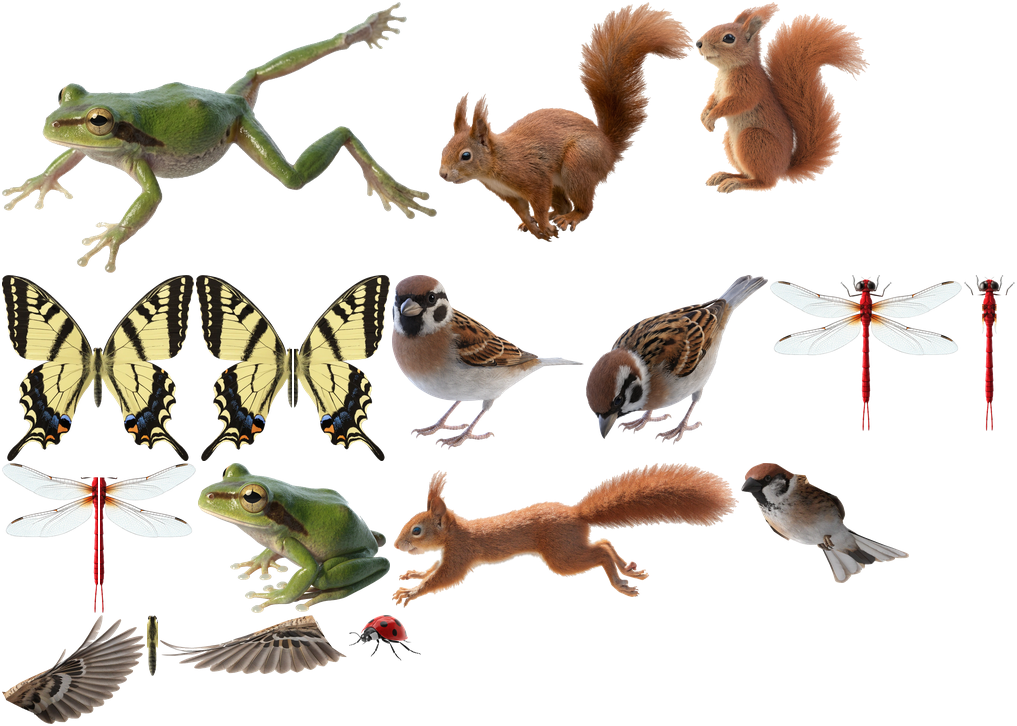
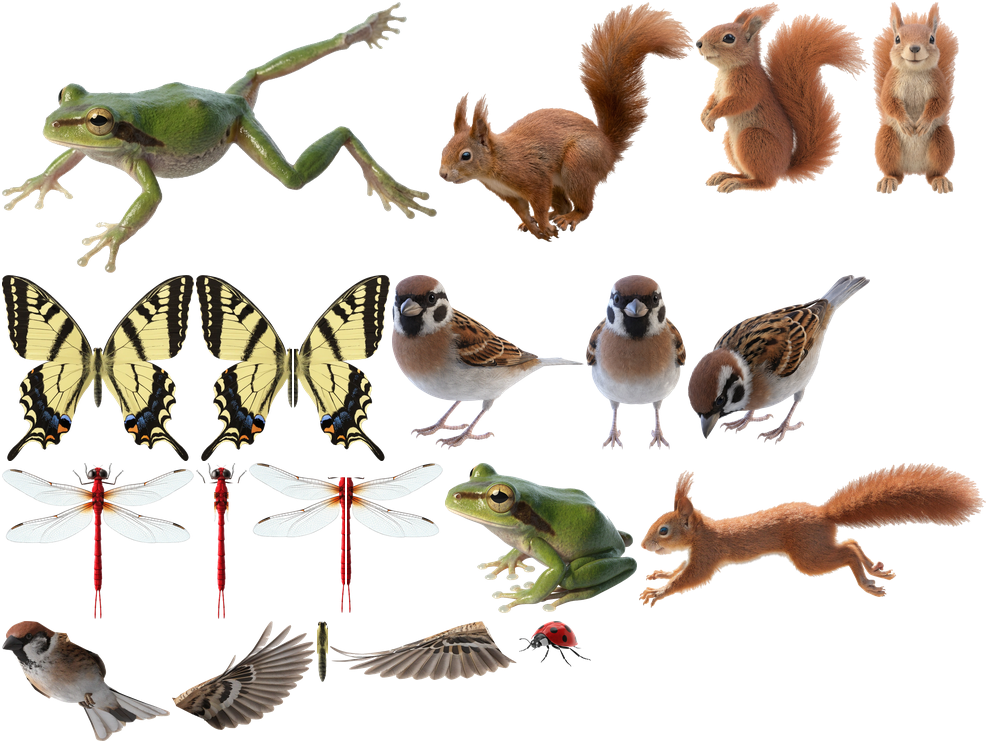
ことりとりすの正面の絵を取り込む（creature_bird_front・creature_squirrel_front）。ほかの生き物と同じ切り抜き（りすはしっぽの毛先を深めに白と分け、ことりは白い所を残す抜き方）、横向きと頭から足までの高さをそろえ、接地点は両足の間

diff --git a/app/src/main/java/com/studioguu/miniaturegarden/data/asset/TileSetDefinition.kt b/app/src/main/java/com/studioguu/miniaturegarden/data/asset/TileSetDefinition.kt
@@ -127,6 +127,13 @@ object TileSetDefinition {
     /** The bird with its beak at the ground, `creature_bird_peck`, anchored on its feet. */
     const val BIRD_PECKING = "creature_bird_peck"
 
+    /**
+     * The bird and the squirrel facing the viewer, `creature_bird_front` and `creature_squirrel_front`,
+     * anchored between their feet and as tall as the side views: shown for a moment as they turn round.
+     */
+    const val BIRD_FRONT = "creature_bird_front"
+    const val SQUIRREL_FRONT = "creature_squirrel_front"
+
     /** The frog in mid-leap, `creature_frog_jump`, anchored so that its head lies where the sitting frog's does. */
     const val FROG_LEAPING = "creature_frog_jump"
 
@@ -155,7 +162,7 @@ object TileSetDefinition {
     /** Every sprite id the creatures' atlas has: each visitor's picture, its other poses, and the fliers in parts. */
     val expectedCreatureSpriteIds: List<String> =
         Creature.entries.flatMap { listOf(assetIdFor(it)) + listOfNotNull(wingedBodyId(it)) + wingIds(it) } +
-            listOf(SQUIRREL_RUNNING, SQUIRREL_GATHERED, BIRD_PECKING, FROG_LEAPING)
+            listOf(SQUIRREL_RUNNING, SQUIRREL_GATHERED, BIRD_PECKING, FROG_LEAPING, BIRD_FRONT, SQUIRREL_FRONT)
 
     /**
      * Things drawn from a picture of their own in `res/drawable` (through [TerrainTextures]),

diff --git a/tools/prepare_creature_art.py b/tools/prepare_creature_art.py
@@ -88,6 +88,11 @@ SAME_SCALE: dict[str, tuple[str, float]] = {
     "frog_jump": ("frog", 1.8),
 }
 
+#: Pictures facing the viewer (2026-11-07), shown for a moment as the bird and the squirrel turn
+#: round: brought to the height of the one seen from the side (head to feet), and stood on their
+#: feet like it, so that turning does not jump.
+FRONT_OF: dict[str, str] = {"bird_front": "bird", "squirrel_front": "squirrel"}
+
 #: Where the pecking bird's feet are on the original: its beak reaches as low as they do, so
 #: feet() would take it for one of them.
 BIRD_PECK_FEET = (430.0, 888.0)
@@ -304,13 +309,18 @@ def fraction(point, zero, scale, picture) -> dict:
 
 def prepare() -> tuple[dict[str, np.ndarray], dict[str, dict]]:
     cuts = {name: cut(name) for name in
-            ["squirrel", "squirrel_run", "squirrel_run2", "bird", "bird_fly", "bird_peck", "frog", "frog_jump", "ladybug", "butterfly", "dragonfly"]}
+            ["squirrel", "squirrel_run", "squirrel_run2", "squirrel_front", "bird", "bird_fly", "bird_peck", "bird_front",
+             "frog", "frog_jump", "ladybug", "butterfly", "dragonfly"]}
     scales: dict[str, float] = {}
     for name, (side, share) in SIZES.items():
         x0, y0, x1, y1 = bounds(cuts[name])
         scales[name] = share * TILE / ((x1 - x0) if side == "w" else (y1 - y0))
     for name, (other, ratio) in SAME_SCALE.items():
         scales[name] = scales[other] * ratio
+    for name, side in FRONT_OF.items():
+        _, sy0, _, sy1 = bounds(cuts[side])
+        _, fy0, _, fy1 = bounds(cuts[name])
+        scales[name] = scales[side] * (sy1 - sy0) / (fy1 - fy0)
 
     pictures: dict[str, np.ndarray] = {}
     overrides: dict[str, dict] = {}
@@ -336,6 +346,9 @@ def prepare() -> tuple[dict[str, np.ndarray], dict[str, dict]]:
     # The gathered squirrel touches the ground: it stands on its feet.
     add("creature_squirrel_run2", cuts["squirrel_run2"], scales["squirrel_run2"], feet(cuts["squirrel_run2"]))
     add("creature_bird_peck", cuts["bird_peck"], scales["bird_peck"], BIRD_PECK_FEET)
+    # Facing the viewer: stood between its two feet.
+    for name in FRONT_OF:
+        add(f"creature_{name}", cuts[name], scales[name], feet(cuts[name]))
     add("creature_frog_jump", cuts["frog_jump"], scales["frog_jump"], leaping_anchor(feet(cuts["frog"]), SAME_SCALE["frog_jump"][1]))
 
     # The flying bird: anchored on the middle of its body; each wing hung on its root.

diff --git a/docs/ASSETS.md b/docs/ASSETS.md
@@ -175,6 +175,7 @@
 - **接地点（anchor）**：地上の生き物は足元（てんとうむしは体の中ほどの下）。走るりすは体の下の中央、飛ぶことりは胴の中心、ちょうちょ・とんぼは胸（羽の付け根の高さの体の中心）。
   飛ぶことりは胴の中心が接地点なので、コードは立つことりの胴の高さ（`BIRD_BODY_HEIGHT` 0.08 マス）だけ持ち上げて描き、降り立つときに体の位置が跳ねないようにしている。
 - **ポーズの絵**（2026-11-02）：ことりの `creature_bird_peck`（つつく間）、りすの `creature_squirrel_run2`（跳ねの地面側）、かえるの `creature_frog_jump`（跳ぶ間）。薄めず一度に切り替える（`VisitorLook.pose`）。大きさは目と頭で合わせた（`SAME_SCALE`）。かえるの跳ぶ絵は水の切り抜きを受けない。
+- **正面の絵**（2026-11-07）：ことりの `creature_bird_front` とりすの `creature_squirrel_front`。振り向きの途中に一瞬だけ出す。大きさは横向きの絵と頭から足までの高さをそろえ（`FRONT_OF`）、接地点は両足の間。
 - **2 枚の絵**：りすは座る `creature_squirrel` と走る `creature_squirrel_run`（移動中）、ことりは立つ `creature_bird` と飛ぶ `creature_bird_fly_*`（庭の外から飛んで来て降りるまでと、飛び去るとき）。
   切り替えは一瞬で替えず、りすは 0.14 秒、ことりは地面から 0.025 マスの高さで重ねて入れ替える（約 0.25 秒）。
   走る姿・飛ぶ姿は、頭の大きさがそろうよう、座る姿・立つ姿と同じ倍率に合わせた（原画の頭の長さ：りす 190 と 123、ことり 228 と 135）。
@@ -197,7 +198,7 @@
 | `crop_cosmos_stage1.png` | コスモス段階 1（#87 で差し替え）。淡いので `deepened` で段階 2 の葉の色に寄せ、半透明の筋を濃くする |
 | `item_fence_wood.png` | **#85 から未使用（保管）**。正面向きのパーツ集。#84 まで柵・支柱・横木を切り出していた |
 | `struct_fence_wood.png` `struct_fence_white.png` `struct_fence_bamboo.png` `struct_edging_brick.png` | 柵 3 種と縁石（#85、Recraft、白背景 1024×1024）。1 区画を正面から見た絵。`tools/prepare_fence_art.py` で切り出す |
-| `creature_{squirrel,squirrel_run,squirrel_run2,bird,bird_fly,bird_peck,frog,frog_jump,ladybug,butterfly,dragonfly}.png` | 生き物 6 種（#71、Recraft、白背景 1024×1024）。`tools/prepare_creature_art.py` で切り抜いて `creatures_0.png` に |
+| `creature_{squirrel,squirrel_run,squirrel_run2,squirrel_front,bird,bird_fly,bird_peck,bird_front,frog,frog_jump,ladybug,butterfly,dragonfly}.png` | 生き物 6 種（#71、Recraft、白背景 1024×1024）。`tools/prepare_creature_art.py` で切り抜いて `creatures_0.png` に |
 | `tile_path_cobblestone.png` | **#74 から未使用（保管）**。イラスト調の石畳（#40）。#73 まで `build_terrain_assets.py`（#85 で削除）が 4 分の 1 を切り出して石畳の床にしていた。#74 で `tile_cobblestone_iso.png` から作った `floor_cobblestone.png` に差し替え |
 | `building_cottage.png` | コテージ（#40）。透過はきれいだった。切り抜いて 3 マス分の幅で描く（描画倍率 約 2.5）。土台が 2:1 より平たい。#41 では土台の左右の角を 3×3 の左右の角にそろえていた（anchorY 0.7975）が、前の列が空いて奥に寄って見えたので、#55 から他の建物と同じく左右の角と前の角のずれを半分ずつにする（`ground_centre_y`、anchorY 0.7481、約 0.2 マス手前へ） |
 | `building_greenhouse.png` | 温室（#40）。**#90 からゲームでは未使用（保管）**。アトラスの `floor_greenhouse` はこれから作る |

diff --git a/docs/ASSET_LEDGER.md b/docs/ASSET_LEDGER.md
@@ -155,6 +155,8 @@
 | りす | `creature_squirrel` | Recraft（#71）。座る姿と走る姿（`creature_squirrel_run`）。しっぽの毛先は白いもやが残らないよう深めに白と分けた。走る姿のお腹の白っぽい毛は、白いギザギザが残らないよう、お腹の下だけ柔らかく消した | ✅ |
 | かえる | `creature_frog` | Recraft（#71） | ✅ |
 | ことり（ついばむ） | `creature_bird_peck` | Recraft で作成・採用（2026-11-02）。頭を下げた立ち姿。つつく間だけ立ち姿から切り替える | ✅ |
+| ことり（正面） | `creature_bird_front` | Recraft で作成・採用（2026-11-07）。振り向きの途中に約 0.09 秒だけ出す。横向きと頭から足までの高さをそろえ、両足の間を接地点にした。淡い足の指は切り抜きで残っている | ✅ |
+| りす（正面） | `creature_squirrel_front` | Recraft で作成・採用（2026-11-07）。振り向きの途中に約 0.09 秒だけ出す。横向きと高さをそろえ、両足の間を接地点にした。しっぽの毛先は横向きと同じく深めに白と分けた | ✅ |
 | りす（縮んだ走り） | `creature_squirrel_run2` | Recraft で作成・採用（2026-11-02）。接地点は足元。移動中、跳ねの地面側で `creature_squirrel_run` と入れ替わる | ✅ |
 | かえる（跳ぶ） | `creature_frog_jump` | Recraft で作成・採用（2026-11-02）。原画のかえるが小さいので 1.8 倍にして目をそろえた。跳ぶ間だけ出す | ✅ |
 | とんぼ | `creature_dragonfly` | Recraft（#71）。真上から見た姿。透明な羽は半透明（不透明度 0.3〜）で残し、脈と縁は不透明。胴と左右の羽に切り分け | ✅ |
